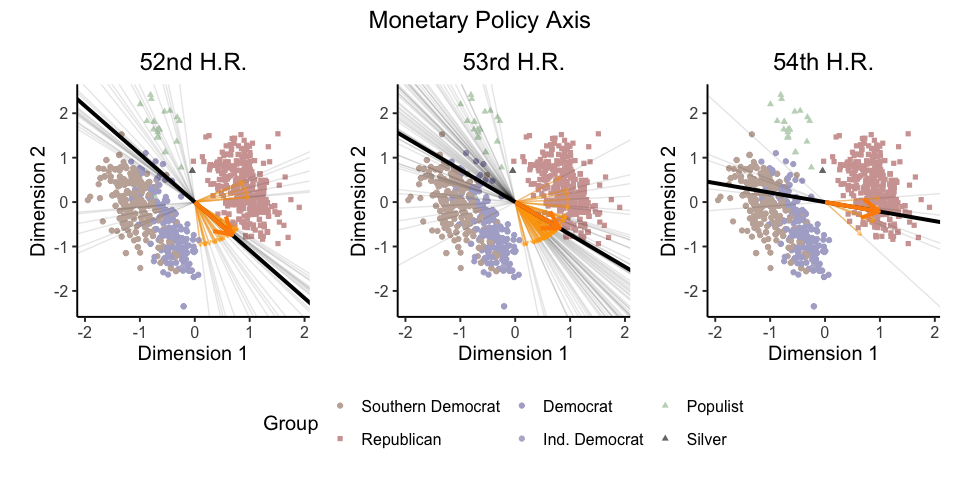
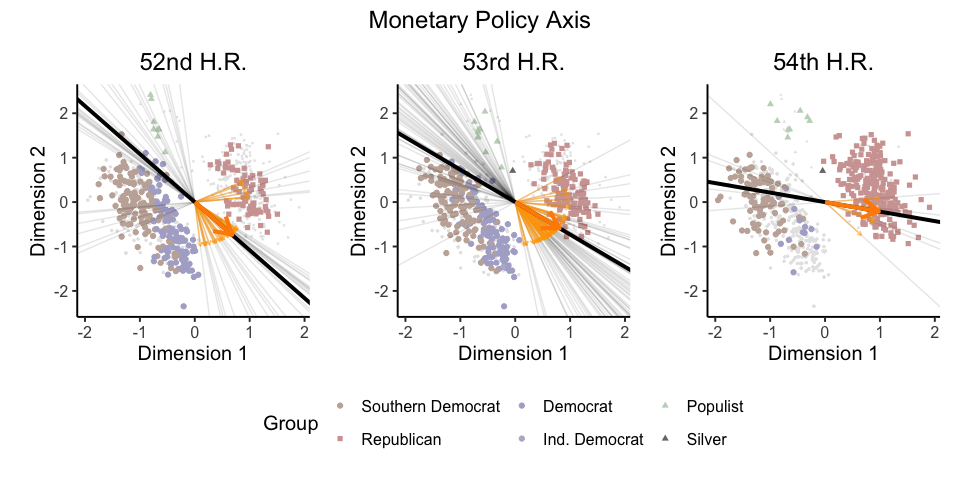
update plot function: add option to plot only the legislators present in each term

diff --git a/README.md b/README.md
@@ -48,7 +48,8 @@ p_ls <- plot_issueaxis(stan_input        = issueirt:::dynamic_stan_input,
                                              "Ind. Democrat", "Populist", "Silver"), 
                        values.shape      = c(19, 15, 19, 19, 17, 17), 
                        values.color      = c("#C4B0A6", "#D1A4A2", "#B0AECF", 
-                                             "#B8B5CF", "#C2D7C1", "#777777"))
+                                             "#B8B5CF", "#C2D7C1", "#777777"),
+                       plot.each.congress = TRUE)
 
 library(patchwork)
 library(ggplot2)
@@ -56,9 +57,9 @@ theme_set(theme_classic(base_size = 15) +
           theme(legend.position = "bottom", plot.title = element_text(hjust = 0.5)))
 
 ## Monetary Policy Axis: 52nd to 54th H.R. (1891 - 1896)
-(p_ls[["H52_Monetary"]]   + labs(title = "52nd H.R.")) +
-  (p_ls[["H53_Monetary"]] + labs(title = "53rd H.R.")) +
-  (p_ls[["H54_Monetary"]] + labs(title = "54th H.R.")) +
+(p_ls[["H52_Monetary"]]   + labs(title = "52nd H.R.") + theme(legend.position = "none")) +
+  (p_ls[["H53_Monetary"]] + labs(title = "53rd H.R.") + theme(legend.position = "bottom")) +
+  (p_ls[["H54_Monetary"]] + labs(title = "54th H.R.") + theme(legend.position = "none")) +
   plot_layout(ncol = 3, guides = "collect") &
   plot_annotation(title = "Monetary Policy Axis")
 ```
@@ -66,6 +67,7 @@ theme_set(theme_classic(base_size = 15) +
 <img src="man/figures/README-axis-1.png" width="100%" />
 
 - Points: multidimensional ideal points
+  - small light grey: legislators that were not present in that term
 - Grey lines: monetary policy related roll-call axes
 - **Black** line: monetary policy axis
 
